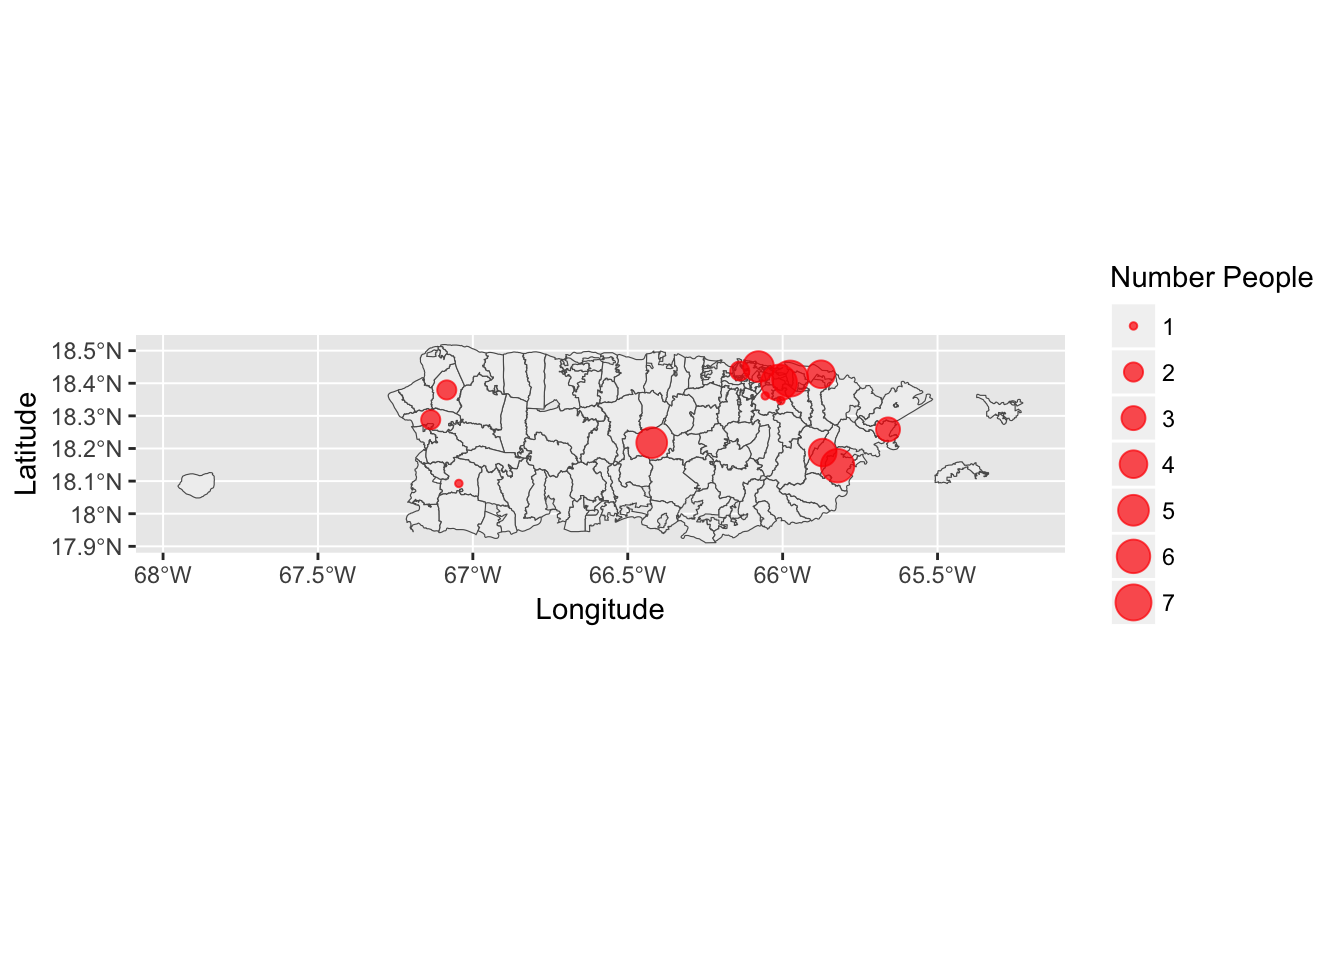
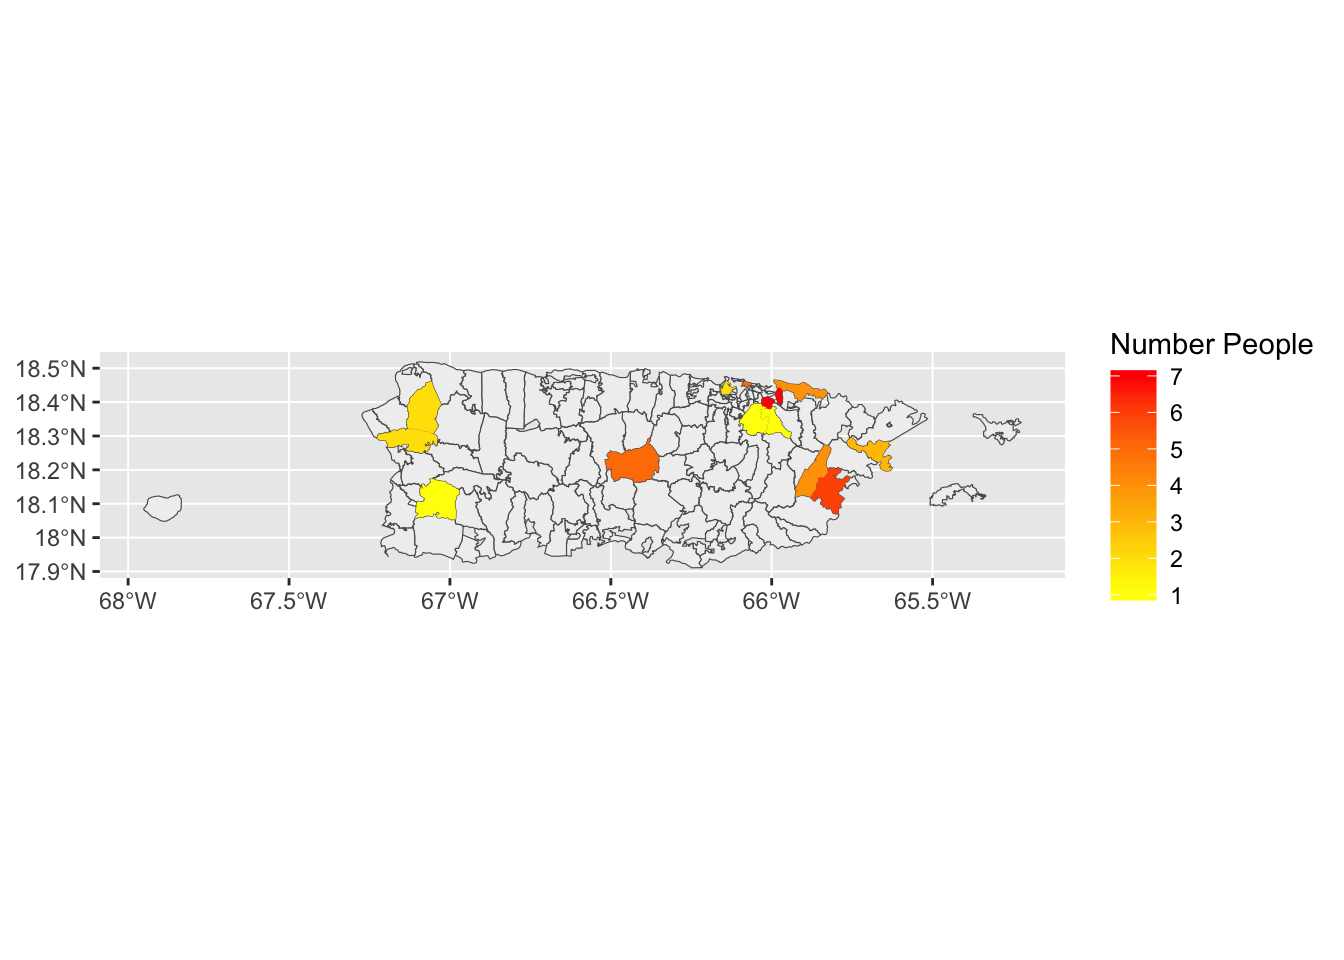
commit

Changed region(s): [[0.0, 0.3438, 0.9688, 0.6562], [0.8125, 0.2812, 0.9688, 0.3125]]

diff --git a/docs/index.html b/docs/index.html
@@ -177,7 +177,7 @@ $(document).ready(function ()  {
 
     // establish options
     var options = {
-      selectors: "h1,h2",
+      selectors: "h1,h2,h3,h4",
       theme: "bootstrap3",
       context: '.toc-content',
       hashGenerator: function (text) {
@@ -330,7 +330,7 @@ knitr::opts_chunk$set(cache=TRUE)  # cache the results for quick compiling</code
 </div>
 <div id="load-buffalo-data-set" class="section level3">
 <h3>Load Buffalo Data Set</h3>
-<p>Read in the anonymized data set provided by the Western New York Homeless Alliance</p>
+<p>Read in the anonymized data set provided by the Western New York Homeless Alliance (due to the sensitive nature of this file, it is stored locally on my own computer and will not be able to be downloaded)</p>
 <pre class="r"><code>Buffalo_Shelter_Data &lt;- read_csv(&quot;~/Desktop/Adam&#39;s Class/*final project/Buffalo Shelter Data (original).csv&quot;)</code></pre>
 <pre><code>## Parsed with column specification:
 ## cols(
@@ -351,142 +351,92 @@ knitr::opts_chunk$set(cache=TRUE)  # cache the results for quick compiling</code
 </div>
 <div id="zip-code-data-frames" class="section level3">
 <h3>Zip Code Data Frames</h3>
-<p>Use the zipcode package to create two data frames: one with the zipcodes for all of the United States, and other with zipcodes just for Puerto Rico. Rename the column heads so that they can later be more easily joined to the Buffalo Shelter Data.</p>
-<pre class="r"><code>data(&quot;zipcode&quot;)
+<p>Use the zipcode package to create two data frames: one with the zipcodes for all of the United States, and other with zipcodes just for Puerto Rico. Rename the column heads so that they can later be more easily joined to the Buffalo Shelter Data to create points marking the origin of individuals who become homeless in Buffalo</p>
+<pre class="r"><code>#download the zip code data for the whole of the United States
+data(&quot;zipcode&quot;)
+
+#rename the head
 names&lt;-c(&quot;Zip&quot;,&quot;City&quot;,&quot;State&quot;,&quot;Latitude&quot;,&quot;Longitude&quot;)
-colnames(zipcode, do.NULL = TRUE, prefix = &quot;col&quot;)</code></pre>
-<pre><code>## [1] &quot;zip&quot;       &quot;city&quot;      &quot;state&quot;     &quot;latitude&quot;  &quot;longitude&quot;</code></pre>
-<pre class="r"><code>colnames(zipcode)&lt;-names
+colnames(zipcode, do.NULL = TRUE, prefix = &quot;col&quot;)
+colnames(zipcode)&lt;-names
+
+#rename
 USdataframe=zipcode
 ##USdataframe is the data frame with zip codes for all of the United States. You can filter to only have Puerto Rico
 
 PRdataframe&lt;-filter(zipcode,State==&quot;PR&quot;)
+##PRdata frame is the data frame with zip codes for just Puerto Rico
 head(PRdataframe)</code></pre>
-<pre><code>##     Zip      City State Latitude Longitude
-## 1 00601  Adjuntas    PR 18.18010 -66.74947
-## 2 00602    Aguada    PR 18.36329 -67.18024
-## 3 00603 Aguadilla    PR 18.44862 -67.13422
-## 4 00604 Aguadilla    PR 18.49899 -67.13699
-## 5 00605 Aguadilla    PR 18.46516 -67.14149
-## 6 00606   Maricao    PR 18.18215 -66.95880</code></pre>
-<pre class="r"><code>##PRdata frame is the data frame with zip codes for just Puerto Rico</code></pre>
 </div>
 <div id="zip-code-boundaries" class="section level3">
 <h3>Zip Code Boundaries</h3>
-<p>Use the tigris package to download the physical boundaries for all United States zip codes and convert to sf. Create an sf object for all United States zip codes, then filter to create an sf object for only Puerto Rico zip codes</p>
+<p>Use the tigris package to download the physical boundaries for all zip codes in Puerto Rico and convert to sf. This will be used later to create choropleth maps of Puerto Rico. <em>Note: this process could be done for the whole of the United States simply by leaving the ‘state=“PR”’ section out of the code, but the focus of the project is the migration specifically from Puerto Rico and we will not be creating a choropleth map of the whole of the United States</em></p>
 <pre class="r"><code>#run the following line of code only once to download the boundary data -- it may take awhile
-#zips&lt;-zctas(cb = FALSE, starts_with = NULL, year = 2010, state = NULL)
 options(tigris_use_cache = TRUE)
-USzips&lt;-zctas(cb = FALSE, starts_with = NULL, year = 2010)%&gt;%
-  st_as_sf()
-##USzips is the sf object with the physical boundaries for all US zip codes
-
 PRzips&lt;-zctas(cb = FALSE, starts_with = NULL, year = 2010, state = &quot;PR&quot;)%&gt;%
   st_as_sf()
 ##PRzips is the sf object with the physical boundaries for PR zip codes</code></pre>
 </div>
 <div id="geocoding-buffalo-shelter-data" class="section level3">
 <h3>Geocoding Buffalo Shelter Data</h3>
-<p>Join the Buffalo Shelter Data and the USdataframe by zip code, then use the sp package to assign coordinates using “Longitude” and “Latitude”. You can now plot the general location of where across the United States homeless people were coming from based on the centroid coordinates of their zip code origin.</p>
+<p>Join the Buffalo Shelter Data and the USdataframe by zip code, then use the sp package to assign coordinates using “Longitude” and “Latitude”. You can now plot the general location of where across the United States homeless people were coming from based on the centroid coordinates of their zip code origin. <em>Note: multiple people originating from the same zip code would be visualized as a single point</em></p>
 <pre class="r"><code>BufDataLL_US&lt;-inner_join(Buffalo_Shelter_Data, USdataframe, by= &quot;Zip&quot;)
 coordinates(BufDataLL_US)&lt;-c(&quot;Longitude&quot;,&quot;Latitude&quot;)
-#View(BufDataLL_US)</code></pre>
+#plot(BufDataLL_US)</code></pre>
 <p>Complete the same process with the PRdata frame: Join the Buffalo Shelter Data and the PRdataframe by zip code, then use the sp package to assign coordinates using “Longitude” and “Latitude”. You can now plot the general location of where within Puerto Rico homeless people were coming from based on the centroid coordinates of their zip code origin.</p>
 <pre class="r"><code>BufDataLL&lt;-inner_join(Buffalo_Shelter_Data, PRdataframe, by= &quot;Zip&quot;)
 coordinates(BufDataLL)&lt;-c(&quot;Longitude&quot;,&quot;Latitude&quot;)
-#View(BufDataLL)
 #Plot(BufDataLL)</code></pre>
 </div>
 <div id="summarizing-the-total-counts-from-each-zip-code" class="section level3">
 <h3>Summarizing the total counts from each zip code</h3>
 <div id="summarizing-from-origin-in-all-of-the-united-states" class="section level4">
 <h4>Summarizing from origin in all of the United States</h4>
-<p>Summarize the data by the count of individuals coming from each of the different zip codes in the United States. You will create both centroid points and polygons with counts of individuals coming from each zip code.</p>
+<p>Summarize the data by the count of individuals coming from each of the different zip codes in the United States. You will create centroid points of the zip codes that now have an “n” value of the number of people coming from each given zip code.</p>
+<div id="us-origins-represented-as-centroid-points" class="section level5">
+<h5>US origins represented as centroid points</h5>
 <pre class="r"><code>#Join the Buffalo Shelter Data to the US zip code data
-count_in_zips_US&lt;-inner_join(Buffalo_Shelter_Data, USzips, by= c(&quot;Zip&quot; = &quot;ZCTA5CE10&quot;))%&gt;%group_by(Zip)%&gt;%summarise(n=n())
-#count_in_zips_US
+count_in_zips_US&lt;-inner_join(Buffalo_Shelter_Data, USdataframe, by= &quot;Zip&quot;)%&gt;%group_by(Zip)%&gt;%summarise(n=n())
 
-#join the newly created data frame to the USdata frame to get the coodinates of the zip codes
+#join the newly created data frame with the number of individuals coming from each zip code back to the to the USdataframe to get the coodinates of the zip codes
 count_in_zips_points_US&lt;-left_join(count_in_zips_US,USdataframe,by= &quot;Zip&quot;)
 
 #set the coordinates for the centroid points
 coordinates(count_in_zips_points_US)&lt;-c(&quot;Longitude&quot;,&quot;Latitude&quot;)
 
 #convert to sf
-st_as_sf(count_in_zips_points_US)</code></pre>
-<pre><code>## Simple feature collection with 416 features and 4 fields
-## geometry type:  POINT
-## dimension:      XY
-## bbox:           xmin: -158.0354 ymin: 18.09281 xmax: -65.65987 ymax: 48.09714
-## epsg (SRID):    NA
-## proj4string:    NA
-## # A tibble: 416 x 5
-##      Zip     n        City State          geometry
-##    &lt;chr&gt; &lt;int&gt;       &lt;chr&gt; &lt;chr&gt;  &lt;simple_feature&gt;
-##  1 00610     2      Anasco    PR &lt;POINT (-67.1...&gt;
-##  2 00676     2        Moca    PR &lt;POINT (-67.0...&gt;
-##  3 00683     1  San German    PR &lt;POINT (-67.0...&gt;
-##  4 00720     5    Orocovis    PR &lt;POINT (-66.4...&gt;
-##  5 00735     3       Ceiba    PR &lt;POINT (-65.6...&gt;
-##  6 00771     4 Las Piedras    PR &lt;POINT (-65.8...&gt;
-##  7 00772     4       Loiza    PR &lt;POINT (-65.8...&gt;
-##  8 00791     6     Humacao    PR &lt;POINT (-65.8...&gt;
-##  9 00907     5    San Juan    PR &lt;POINT (-66.0...&gt;
-## 10 00924     7    San Juan    PR &lt;POINT (-66.0...&gt;
-## # ... with 406 more rows</code></pre>
-<pre class="r"><code>#plot(count_in_zips_points_US)
+st_as_sf(count_in_zips_points_US)
 
-
-#join the Buffalo Shelter Data to the USzips polygon to create polygons with counts of the number of individuals coming from each zip code
-count_in_zips_polygons_US&lt;-inner_join(Buffalo_Shelter_Data, USzips, by= c(&quot;Zip&quot; = &quot;ZCTA5CE10&quot;))%&gt;%st_as_sf()%&gt;%group_by(Zip)%&gt;%summarise(n=n())
-#plot(count_in_zips_polygons_US)</code></pre>
+#plot(count_in_zips_points_US)</code></pre>
+</div>
 </div>
 <div id="summarizing-from-origin-only-in-puerto-rico" class="section level4">
 <h4>Summarizing from origin only in Puerto Rico</h4>
-<p>Summarize the data by the count of individuals coming from each of the different zip codes in Puerto Rico. You will create both centroid points and polygons with counts of individuals coming from each zip code.</p>
+<p>Summarize the data by the count of individuals coming from each of the different zip codes in Puerto Rico. You will create both centroid points and polygons with counts of individuals coming from each zip code for the Puerto Rico data.</p>
+</div>
+<div id="puerto-rico-data-represented-as-centroid-points" class="section level4">
+<h4><em>Puerto Rico data represented as centroid points</em></h4>
 <pre class="r"><code>#Join the Buffalo Shelter Data to the Puerto Rico zip code data
 count_in_zips&lt;-inner_join(Buffalo_Shelter_Data, PRzips, by= c(&quot;Zip&quot; = &quot;ZCTA5CE10&quot;))%&gt;%group_by(Zip)%&gt;%summarise(n=n())
-#count_in_zips
 
 #create count_in_zips_points, which is a left join of the count_in_zips data frame that you just created and the PRdataframe that has the locations of the zip codes
 count_in_zips_points&lt;-left_join(count_in_zips,PRdataframe,by= &quot;Zip&quot;)
 
 #set the coordinates
 coordinates(count_in_zips_points)&lt;-c(&quot;Longitude&quot;,&quot;Latitude&quot;)
-st_as_sf(count_in_zips_points)</code></pre>
-<pre><code>## Simple feature collection with 14 features and 4 fields
-## geometry type:  POINT
-## dimension:      XY
-## bbox:           xmin: -67.13604 ymin: 18.09281 xmax: -65.65987 ymax: 18.45113
-## epsg (SRID):    NA
-## proj4string:    NA
-## # A tibble: 14 x 5
-##      Zip     n          City State          geometry
-##    &lt;chr&gt; &lt;int&gt;         &lt;chr&gt; &lt;chr&gt;  &lt;simple_feature&gt;
-##  1 00610     2        Anasco    PR &lt;POINT (-67.1...&gt;
-##  2 00676     2          Moca    PR &lt;POINT (-67.0...&gt;
-##  3 00683     1    San German    PR &lt;POINT (-67.0...&gt;
-##  4 00720     5      Orocovis    PR &lt;POINT (-66.4...&gt;
-##  5 00735     3         Ceiba    PR &lt;POINT (-65.6...&gt;
-##  6 00771     4   Las Piedras    PR &lt;POINT (-65.8...&gt;
-##  7 00772     4         Loiza    PR &lt;POINT (-65.8...&gt;
-##  8 00791     6       Humacao    PR &lt;POINT (-65.8...&gt;
-##  9 00907     5      San Juan    PR &lt;POINT (-66.0...&gt;
-## 10 00924     7      San Juan    PR &lt;POINT (-66.0...&gt;
-## 11 00926     1      San Juan    PR &lt;POINT (-66.0...&gt;
-## 12 00962     2        Catano    PR &lt;POINT (-66.1...&gt;
-## 13 00976     1 Trujillo Alto    PR &lt;POINT (-66.0...&gt;
-## 14 00983     7      Carolina    PR &lt;POINT (-65.9...&gt;</code></pre>
-<pre class="r"><code>#plot(count_in_zips_points)
-
-#create count_in_zips_polygons, which is the count_in_zips dataframe set as a sf to create polygons with the counts of people coming from each zip code in Puerto Rico
+st_as_sf(count_in_zips_points)
+#plot(count_in_zips_points)</code></pre>
+</div>
+<div id="puerto-rico-data-represented-as-polygons" class="section level4">
+<h4><em>Puerto Rico data represented as polygons</em></h4>
+<pre class="r"><code>#create count_in_zips_polygons, which is the Puerto Rico zip code polygons joined with the Buffalo shelter data of people coming from each zip code in Puerto Rico, then summarized to give the total count originating from each zip code
 count_in_zips_polygons&lt;-inner_join(Buffalo_Shelter_Data, PRzips, by= c(&quot;Zip&quot; = &quot;ZCTA5CE10&quot;))%&gt;%st_as_sf()%&gt;%group_by(Zip)%&gt;%summarise(n=n())
 #plot(count_in_zips_polygons)</code></pre>
 </div>
 </div>
 <div id="income-for-puerto-rico-zip-codes" class="section level3">
 <h3>Income For Puerto Rico Zip Codes</h3>
-<p>Use the tidycensus package to get the household income data from the US Census Bureau (census.gov). We will download the income data for each zip code (table B19001_001E is the average household income in the past 12 months)</p>
+<p>Since homelessness is often related to income levels, we are interested in the average income in each zip code of origin in Puerto Rico. Use the tidycensus package to get the household income data from the US Census Bureau (census.gov). We will download the income data for each zip code (table B19001_001E is the average household income in the past 12 months)</p>
 <pre class="r"><code>IncomeZipCodeData &lt;-get_acs(geography = &quot;zcta&quot;, variables = &quot;B19001_001E&quot;)</code></pre>
 <p>Join IncomeZipCodeData with PRzips to make PR zips income file</p>
 <pre class="r"><code>PRzipsIncome&lt;-left_join(IncomeZipCodeData, PRzips, by= c(&quot;GEOID&quot; = &quot;ZCTA5CE10&quot;))</code></pre>
@@ -512,19 +462,17 @@ for (j in 1:length(points_in_US$n)) {
   
   lines(inter, col=&quot;black&quot;, lwd=0.6)
 }</code></pre>
-<p><img src="index_files/figure-html/unnamed-chunk-12-1.png" width="672" /></p>
+<p><img src="index_files/figure-html/unnamed-chunk-13-1.png" width="672" /></p>
 <p>As we can see, there are a number of lines originating in Puerto Rico. The next section will specifically explore the phenomenon of people coming from Puerto Rico before becoming homeless in Western New York…</p>
 </div>
 <div id="puerto-rico-to-buffalo" class="section level3">
 <h3>Puerto Rico to Buffalo</h3>
-<div id="zip-code-density" class="section level4">
-<h4>Zip Code Density</h4>
-<p>Zoomed-in map of migration to Buffalo from Puerto Rico along great circle lines, weighted by the number from each place (the darker red the color, the more people coming from the zip code)</p>
+<p>Let’s focus on the migration from Puerto Rico to Buffalo. We can zoom in on the map of migration to Buffalo from Puerto Rico along great circle lines, and color code the lines by the number of people coming from each place (the darker red the color, the more people coming from the zip code)</p>
 <pre class="r"><code>#set the points of origin (&quot;points&quot;) and the final destination in Buffalo (&quot;BuffaloCoordinates&quot;)
 points &lt;- data.frame(count_in_zips_points)
-BuffaloCoordinates=as.matrix(geocode(&quot;Buffalo, NY&quot;))</code></pre>
-<pre><code>## Information from URL : http://maps.googleapis.com/maps/api/geocode/json?address=Buffalo,%20NY&amp;sensor=false</code></pre>
-<pre class="r"><code>#use the map package to create a map of the area of interest
+BuffaloCoordinates=as.matrix(geocode(&quot;Buffalo, NY&quot;))
+
+#use the map package to create a map of the area of interest
 xlim &lt;- c(-90, -60)
 ylim &lt;- c(18, 45)
 map(&quot;world&quot;, col=&quot;#f1f1f1&quot;, fill=TRUE, bg=&quot;white&quot;, lwd=0.2, xlim=xlim, ylim=ylim)
@@ -541,35 +489,27 @@ for (j in 1:length(points$n)) {
   
   lines(inter, col=prettycolors[colindex], lwd=0.8)
 }</code></pre>
-<p><img src="index_files/figure-html/unnamed-chunk-13-1.png" width="672" /></p>
-<p>Create a choropleth map of density (number of people coming to Buffalo from each Puerto Rican zip code)</p>
+<p><img src="index_files/figure-html/unnamed-chunk-14-1.png" width="672" /></p>
+<div id="zip-code-density" class="section level4">
+<h4>Zip Code Density</h4>
+<p>It is difficult to see <em>where</em> on the island of Puerto Rico people are coming from. Let’s create a choropleth map of density (number of people coming to Buffalo from each Puerto Rican zip code) to make it evident where on the island more people are coming from</p>
 <pre class="r"><code>###use ggplot to create a choropleth map of density
 ggplot(PRzips)+
   geom_sf(lwd=0.2,fill=&quot;#f0f0f0&quot;)+
   geom_sf(data=count_in_zips_polygons, aes(fill = n), col=&quot;transparent&quot;) +
   scale_fill_gradient(low = &quot;yellow&quot;, high = &quot;red&quot;)+
   labs(fill=&quot;Number People&quot;)</code></pre>
-<p><img src="index_files/figure-html/unnamed-chunk-14-1.png" width="672" /></p>
-<p>There are other ways of visualizing this data. For example, the following map will create centroid dots of the zip code of origin, with size indicating the number of individuals coming from that place</p>
-<pre class="r"><code>#create points as data frame to use in ggplot
-points &lt;- data.frame(count_in_zips_points)
-
-#plot
-ggplot(PRzips)+
-  geom_sf(lwd=0.2,fill=&quot;#f0f0f0&quot;)+
-  geom_point(data=points, colour=&quot;red&quot;, alpha=.7, aes(x=Longitude, y=Latitude, size=n))+
-  labs(size=&quot;Number People&quot;)</code></pre>
 <p><img src="index_files/figure-html/unnamed-chunk-15-1.png" width="672" /></p>
 </div>
 <div id="thinking-about-income" class="section level4">
 <h4>Thinking about Income</h4>
-<p>For fun, lets explore income of Puerto Rico by zip code.</p>
+<p>For fun, lets use the average income data set that we downloaded to explore the income of Puerto Rico by zip code.</p>
 <pre class="r"><code>ggplot(PRzipsIncome)+
 geom_sf(data=PRzipsIncome, aes(fill = estimate), col=&quot;transparent&quot;) +
 scale_fill_gradient(low = &quot;white&quot;, high = &quot;dark green&quot;)+
 labs(fill=&quot;Estimated Average Income ($)&quot;)</code></pre>
 <p><img src="index_files/figure-html/unnamed-chunk-16-1.png" width="672" /></p>
-<p>This can then be overlaid with the number of people coming from each zip code.</p>
+<p>From this map of income, we can see that there is a great deal of variation in average income by zip code on the island of Puerto Rico. We can now overlay this map with the number of people coming from each zip code. The number of people coming from each zip code will be represented as proportional symbols, with larger dots indicating more people originating from a given zip code.</p>
 <pre class="r"><code>ggplot(PRzipsIncome)+
 geom_sf(data=PRzipsIncome, aes(fill = estimate),col=&quot;transparent&quot;) +
 scale_fill_gradient(low = &quot;white&quot;, high = &quot;dark green&quot;)+
@@ -583,15 +523,21 @@ labs(size=&quot;Number People&quot;)</code></pre>
 </div>
 <div id="conclusions" class="section level1">
 <h1>Conclusions</h1>
-<p>Looking at the final map, which overlays the number of individuals from Puerto Rican zip codes with the average household income of the zip code, I was surprised to see that there does not seem to be a strong relationship between income and the number of individuals orginating from that zip code. The total sample size of people coming from Puerto Rico was too small to run any kind of meaningful statistical regression, but a visual examination shows that the zip codes of origin were not necessarily the ones with the lowest average annual incomedata.</p>
+<p>Looking at the final map, which overlays the number of individuals from Puerto Rican zip codes with the average household income of the zip code, I was surprised to see that there does not seem to be a strong relationship between income and the number of individuals orginating from that zip code. It is certainly worth noting that the data is not normalized and there could be many, many explanations for this apparently lack of relationship: for example, the zip codes with lower average incomes may have relatively small populations compared to wealthier zip codes, so it may be possible that people are simply coming from more populous regions. It also may be possible that people in relatively poorer zip codes may not have the resources at their disposal to make their way to Buffalo, as travel is expensive. These are just potential explanations, but they are worth considering. It is also important to note that all of these speculations are drawn merely from visual analysis, as the total sample size of people coming from Puerto Rico was too small to run any kind of meaningful statistical regression.</p>
 <p>On a broader scale, this project has successfully shown where people are coming from before becoming homeless in Western New York. My experience in developing this project has also demonstrated how easy it might be to use R to visualize migration data and the origins of homeless individuals. My ultimate hope is to compare this current data set with similar data sets from other Rust Belt cities, including Cleveland, OH, and Pittsburgh, PA to see if the phenomenon of homeless individuals originating in Puerto Rico extends beyond Buffalo and the Western New York region. This project will be an invaluable tool, as the code for this project could easily be run with other data sets substituted for the Buffalo Shelter Data.</p>
 </div>
 <div id="references" class="section level1">
 <h1>References</h1>
+<div id="the-homelessness-data-set-used-in-this-project-was-generously-provided-by-the-homelessness-alliance-of-western-new-york" class="section level5">
+<h5>The homelessness data set used in this project was generously provided by The Homelessness Alliance of Western New York</h5>
+</div>
+<div id="the-zip-code-polygons-and-the-zip-code-income-data-were-downloaded-from-the-us-census-bureau-census.gov" class="section level5">
+<h5>The zip code polygons and the zip code income data were downloaded from the US Census Bureau (census.gov)</h5>
 <ul>
-<li>The homelessness data set used in this project was generously provided by The Homelessness Alliance of Western New York</li>
-<li>The zip code polygons and the zip code income data were downloaded from the US Census Bureau (census.gov)</li>
+<li>U.S. Census Bureau (2016). US Cartography Boundary Shapefiles - ZIP code tabulation areas (ZCTAs). Retrieved from <a href="https://www.census.gov/geo/maps-data/data/cbf/cbf_zcta.html" class="uri">https://www.census.gov/geo/maps-data/data/cbf/cbf_zcta.html</a></li>
+<li>U.S. Census Bureau (2015). Household Income In The Past 12 Monts (in 2015 Inflation-Adjusted Dollars), 2015 American Community Survey 1-year estimate. Retrieved from <a href="https://factfinder.census.gov/faces/tableservices/jsf/pages/productview.xhtml?src=bkmk" class="uri">https://factfinder.census.gov/faces/tableservices/jsf/pages/productview.xhtml?src=bkmk</a></li>
 </ul>
+</div>
 </div>
 
 <!-- give the footer some space -->
